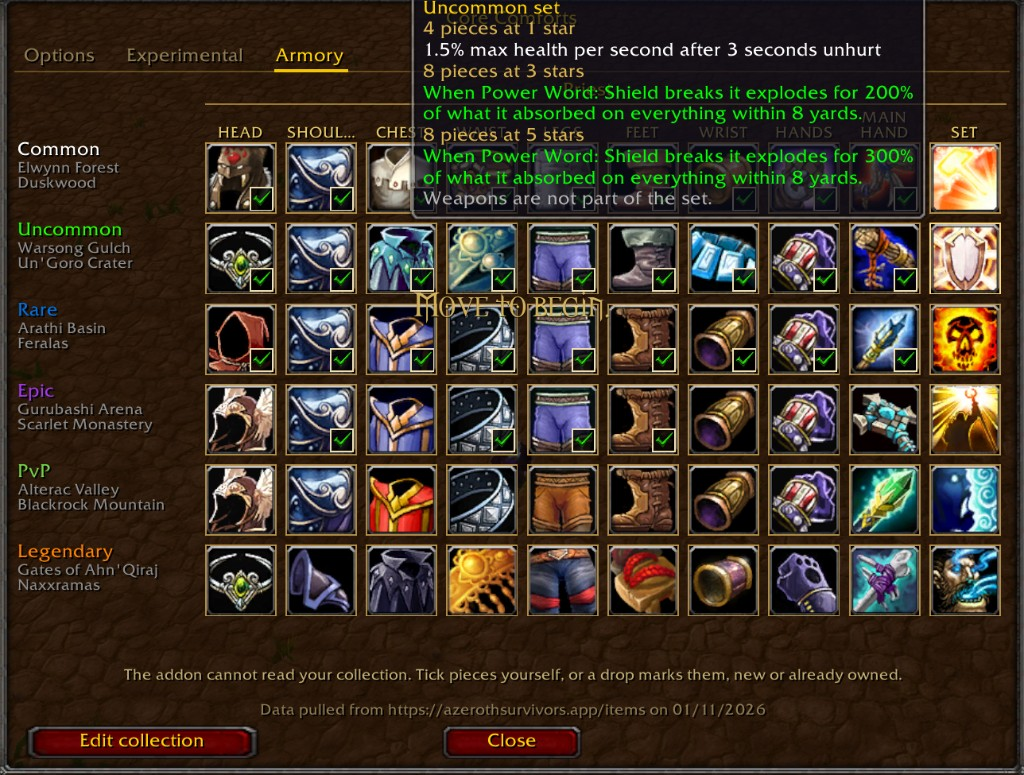
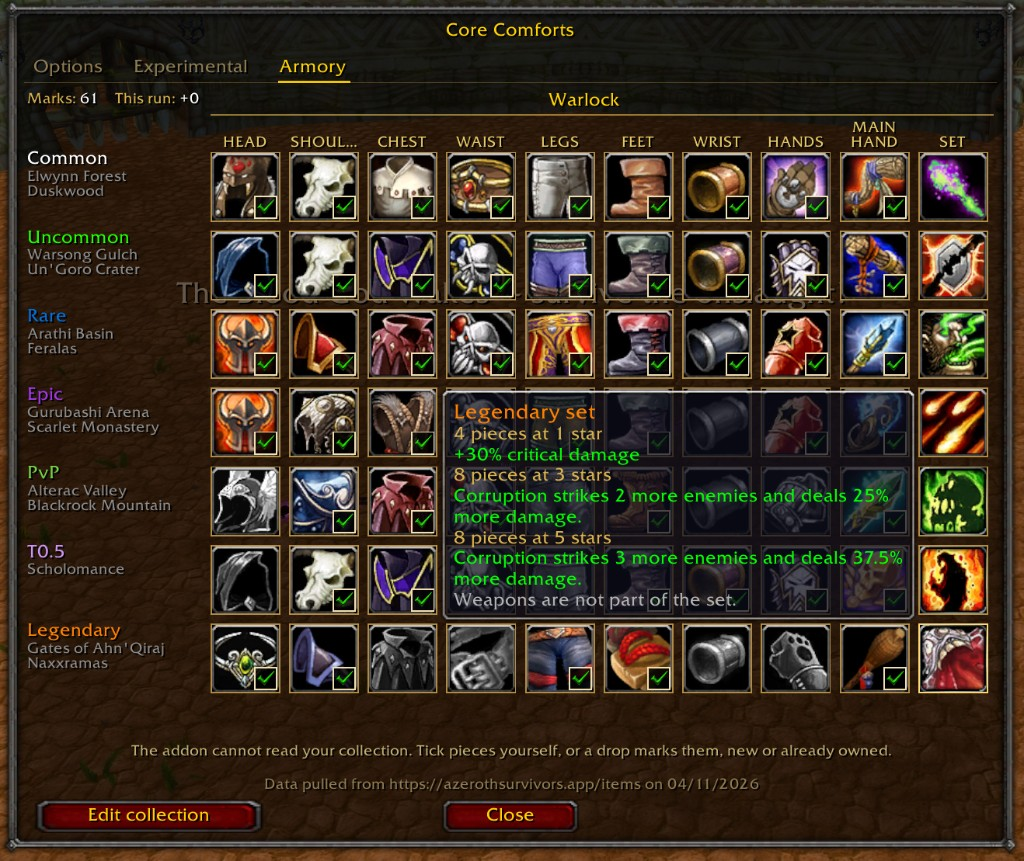
Show the armory marks and the Run History screens so players can see them first.
The list filters and the run details are in the readme with the updated armory shot.

diff --git a/README.md b/README.md
@@ -36,13 +36,29 @@ The options window. Each option can be turned on or off. Caches you can buy is u
 
 ![Core Comforts options](screenshots/options.jpg)
 
-The armory. Gear from each map and boss. It updates when you get a drop. The addon cannot read your current collection, but you can edit the collection and check the items you already owned before installing it. Right now it only records whether you own a specific item. Star ranks, 1 through 5, are not supported yet. I might look into that later.
+The armory. Gear from each map and boss. It updates when you get a drop. The addon cannot read your current collection, but you can edit the collection and check the items you already owned before installing it. It also shows your total marks, and the marks collected this run.
 
 ![Armory, with owned pieces checked](screenshots/armory.jpg)
 
 ## Run History
 
 Saves each run and compares kills per minute by class, map, difficulty, and spec. `/history` opens the window.
+
+The run list. Filter by class, map, and difficulty. Switch between the full run and endless, and between the average pace and the last minute. The minimum length hides shorter runs, from 0 to 16 minutes.
+
+![Run list, with class, map, and difficulty filters](screenshots/history.jpg)
+
+Details for one run. Kills, damage, gold, and the character's stats.
+
+![Run details, with kills and character stats](screenshots/history-stats.png)
+
+Spells, jewelry, and damage done.
+
+![Spells, jewelry, and damage done](screenshots/history-build.png)
+
+Damage for the last minute, damage taken, and pickups over time.
+
+![Damage taken and pickups over time](screenshots/history-pickups.png)
 
 ## Install
 
